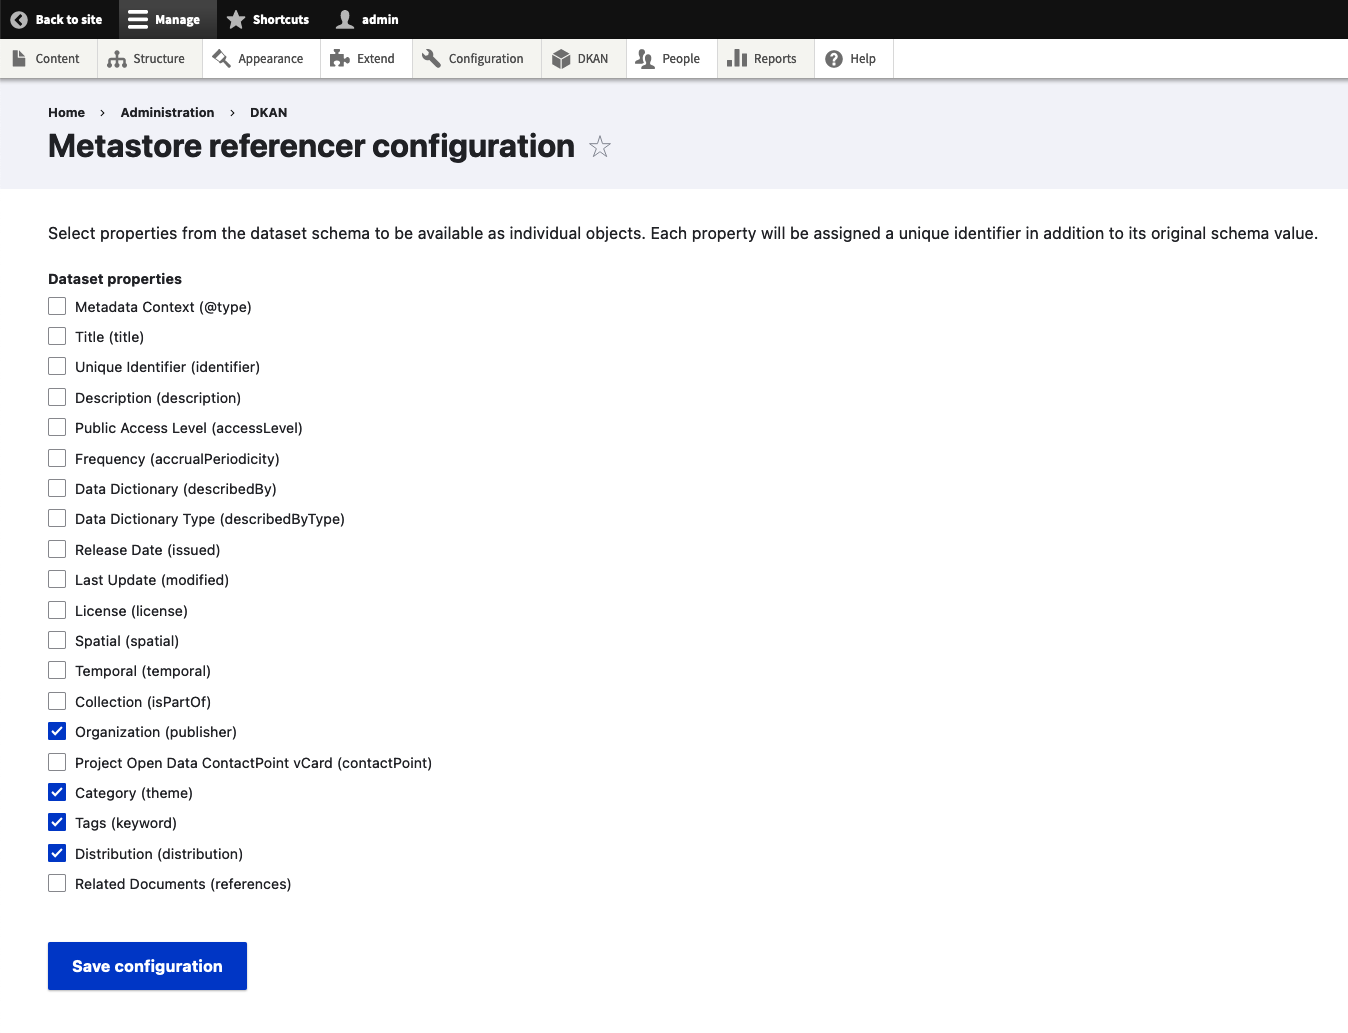
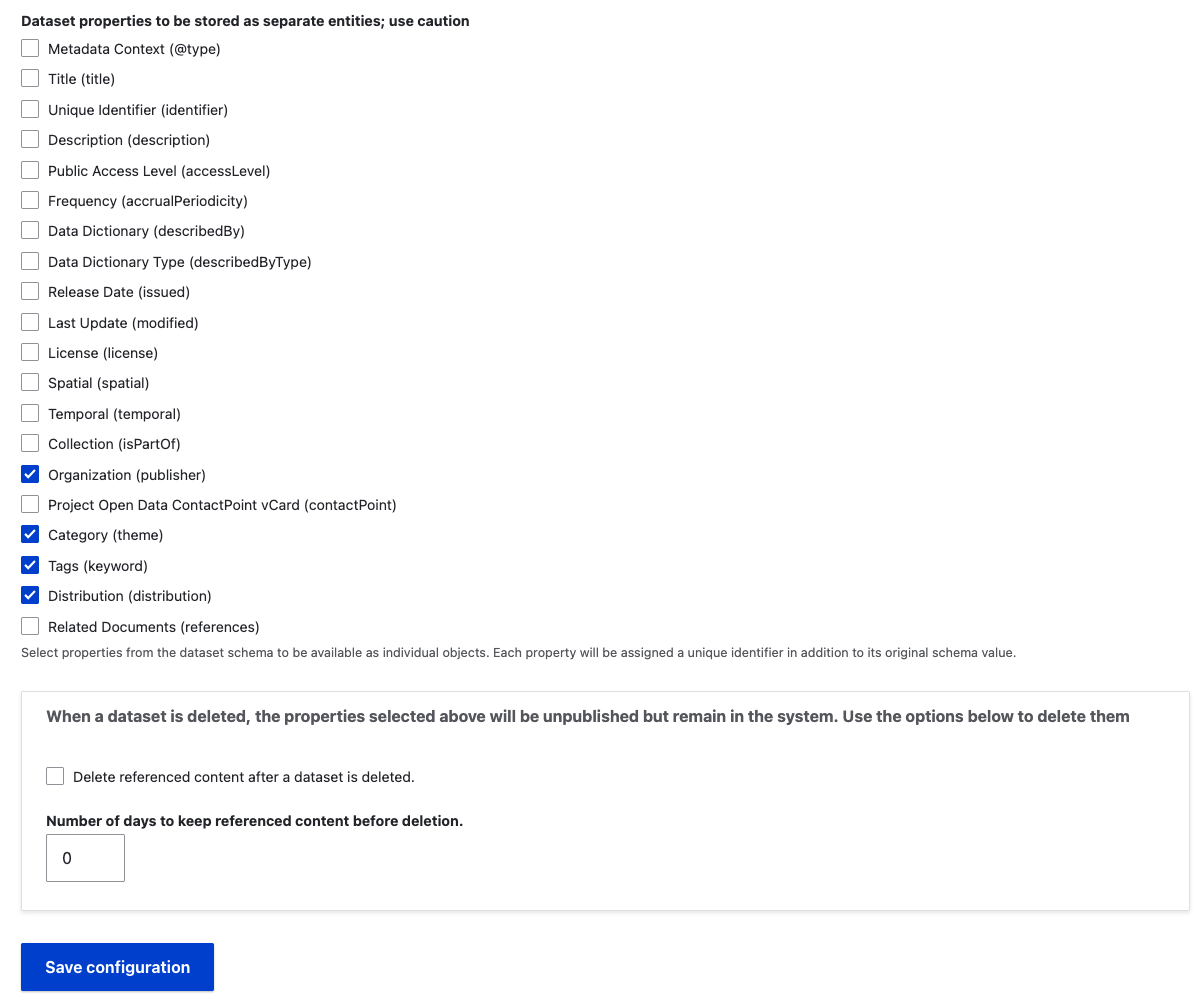
Updated metastore settings doc text and image.

diff --git a/modules/metastore/src/Form/DkanDataSettingsForm.php b/modules/metastore/src/Form/DkanDataSettingsForm.php
@@ -203,12 +203,12 @@ class DkanDataSettingsForm extends ConfigFormBase {
        them'),
       'delete' => [
         '#type' => 'checkbox',
-        '#title' => $this->t('Delete referenced content after a dataset is deleted.'),
+        '#title' => $this->t('Delete referenced content after a dataset is deleted'),
         '#default_value' => $config->get('orphan.delete') ?? 0,
       ],
       'retain_for' => [
         '#type' => 'number',
-        '#title' => $this->t('Number of days to keep referenced content before deletion.'),
+        '#title' => $this->t('Number of days to keep referenced content before deletion'),
         '#default_value' => $config->get('orphan.retain_for') ?? 0,
         '#min' => 0,
         '#max' => 999,

diff --git a/docs/source/user-guide/guide_metastore_properties.rst b/docs/source/user-guide/guide_metastore_properties.rst
@@ -17,3 +17,10 @@ If you prefer to run it manually, you may do so with:
 .. prompt:: bash $
 
    drush queue-run orphan_reference_processor
+
+The unpublished data nodes will not appear on the site, but they will remain in the
+ system until they are deleted. If you would like them to be deleted automatically
+ as part of the daily cron run, check "Delete referenced content after a dataset is
+ deleted". If you prefer to retain these data nodes temporarily, but still automate
+ their deletion, enter the number of days you want to keep them in "Number of days
+ to keep referenced content before deletion"
